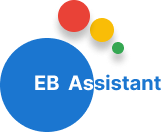
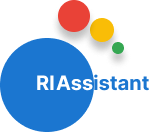
Completed implementation of tawk and add streamline stage phase 2

diff --git a/resources/js/components/ResultComponent.vue b/resources/js/components/ResultComponent.vue
@@ -2,42 +2,15 @@
 
     <div class="assessment-component" style="text-align: left;">
 
-
-        <div v-if="!ready">
-            <h1 style="text-align: left; font-style: italic;"><span>There is about <br><span style="color: #1b76d0; font-size: 40px;">{{Math.round($route.query.percentage)}}% chance we diagnose</span> you correctly...</span></h1>
-            <CountdownTimer :key="countdownKey" @countdown-finished="onCountdownFinished" />
-            <br><br>
-        </div>
-
-        <div v-if="ready">
+        <div>
             <router-link to="/diagnosis"><i class="fa fa-arrow-left"></i> Go back to diagnosis | Restart</router-link>
             <br><br>
 
-            <div id="questionContainer" v-if="symptoms.length > 0 && assessmentStatus != 'completed'">
-            <h1 style="text-align: left;"><span>Kindly answer <br>the following streamlining questions</span></h1>
-            <span>Respond with a Yes / No</span>
+            <img id="assistant" src="/public/img/eb-assistant.png" alt="RI Assistant Animation">
+            <br><br>
+            <hr><br>
 
-            <hr>
-                <!-- Question goes here ... -->
-                <h2>{{ symptoms[0].question }}</h2>
-                <br>
-                <h6>{{ symptoms[0].description }}</h6>
-                <br>
-                <h4 style="font-size: 15px;">{{ pos }} / {{ totalSymptoms }}</h4>
 
-                <br>
-
-                <input class="radio" type="radio" name="response" v-model="selectedResponse" value="YES" id="yesOption" />
-                <label for="yesOption" style="font-size: 20px; font-weight: bold; color: black;">YES</label>
-
-                <input class="radio" type="radio" name="response" v-model="selectedResponse" value="NO" id="noOption" />
-                <label for="noOption" style="font-size: 20px; font-weight: bold; color: black;">NO</label>
-
-                <br>
-                <div style="text-align: right;">
-                    <button class="btn btn-md btn-primary" @click="nextQuestion" style="float: right;">Next</button>
-                </div>
-        </div>
 
         </div>
     </div>
@@ -46,13 +19,9 @@
 
 <script>
 import axios from 'axios';
-import CountdownTimer from './CountdownTimer.vue';
 
 export default {
-    name: 'AssessmentStreamlineComponent',
-    components : {
-        CountdownTimer
-    },
+    name: 'ResultComponent',
     data() {
         return {
             symptoms : [],
@@ -64,13 +33,10 @@ export default {
             responseMessage : '',
             curType : 'common',
             sessionId : '',
-            assessmentStatus : "in-progress",
-            countdownKey: 0,
-            ready : false
         };
     },
     async mounted() {
-        console.log('Assessment Streamline Component is mounted!');
+        console.log('Assessment Result Component is mounted!');
 
         this.sessionId = this.$route.query.sessionId;
 
@@ -122,15 +88,7 @@ export default {
                 // Handle errors
                 this.responseMessage = error.response?.data?.message || 'An error occurred';
             }
-        },
-        nextQuestion() {
-            if (this.selectedResponse !== '' && (parseInt(this.pos) <= parseInt(this.totalSymptoms))) {
-                this.fetchGeneralSymptoms()
-            }
-        },
-        onCountdownFinished() {
-            this.ready = true
-        },
+        }
     }
 }
 </script>

diff --git a/resources/js/components/AssessmentComponent.vue b/resources/js/components/AssessmentComponent.vue
@@ -49,7 +49,8 @@ export default {
             responseMessage : '',
             curType : 'common',
             sessionId : '',
-            assessmentStatus : "in-progress"
+            assessmentStatus : "in-progress",
+            trueAnswers : 0
         };
     },
     async mounted() {
@@ -68,8 +69,6 @@ export default {
     methods: {
         async fetchGeneralSymptoms() {
             try {
-                console.log(this.curSymptom)
-                console.log(this.ids.length)
                 // Send POST request to Laravel API
                 if(this.ids.length > 0)
                 {
@@ -78,6 +77,8 @@ export default {
                         this.assessmentStatus = "completed";
                     }
                 }
+
+                if(this.selectedResponse == "YES") {this.trueAnswers +=1 }
 
                 const response = await axios.get("/api/v1/fetch-common-symptoms?type="+this.curType+"&id="+this.curSymptom+"&session_id="+this.sessionId+"&question_id="+this.curSymptom+"&answer="+this.selectedResponse+"&flag="+this.assessmentStatus);
 
@@ -92,7 +93,10 @@ export default {
 
                     if(this.ids.length > 0 && this.curSymptom > this.ids.length)
                     {
-                        this.$router.push('/assessment-streamline');
+                        this.$router.push({
+                            path: '/assessment-streamline',
+                            query: { sessionId: this.sessionId, percentage : (this.trueAnswers/this.totalSymptoms)*100 }
+                        });
                     }
                 }
                 else {

diff --git a/resources/js/components/DiagnosisComponent.vue b/resources/js/components/DiagnosisComponent.vue
@@ -23,10 +23,8 @@
 
                     <img class="modal-title" src="/public/img/eb-assistant-bare.png" alt="EB Assistant Animation">
                     <br><br>
-                    You are not alone dear, we are going to help you navigate thoughts
+                    You are not alone dear, we are going to help you navigate thoughts like
                     <br>
-                    <br>
-                    <h5 style="color: #1b76d0">Like</h5>
                     <br>
 
                     <div v-html="similarSearch"></div>

diff --git a/resources/js/router.js b/resources/js/router.js
@@ -13,6 +13,10 @@ const routes = [
         path: "/assessment-streamline",
         component: () => import("./components/AssessmentStreamlineComponent.vue"),
     },
+    {
+        path: "/result",
+        component: () => import("./components/ResultComponent.vue"),
+    },
 ];
 
 export default createRouter({

diff --git a/resources/js/components/CountdownTimer.vue b/resources/js/components/CountdownTimer.vue
@@ -1,6 +1,6 @@
 <template>
     <div>
-      Redirecting in {{ timeLeft }}s ...
+      Continue in {{ timeLeft }}s ...
     </div>
   </template>
 
@@ -9,7 +9,7 @@
     name: 'CountdownTimer',
     data() {
       return {
-        timeLeft: 5,
+        timeLeft: 3,
         timer: null,
       };
     },

diff --git a/database/seeders/QuestionSeeder.php b/database/seeders/QuestionSeeder.php
@@ -17,7 +17,7 @@ class QuestionSeeder extends Seeder
             // Common symptoms
             [
                 'type' => "common",
-                'question' => "Feeling a Persistent Low Mood and Sadness",
+                'question' => "Do you feeling a Persistent Low Mood and Sadness",
                 'description' => "Do you experience a persistent feeling of sadness and low mood that affects daily life", 'group_id' => 0
             ],
             [
@@ -27,7 +27,7 @@ class QuestionSeeder extends Seeder
             ],
             [
                 'type' => "common",
-                'question' => "Any Fatigue and Lack of Energy",
+                'question' => "Do you feel any Fatigue and Lack of Energy",
                 'description' => "Feeling tired all the time and having a lack of energy", 'group_id' => 0
             ],
             [
@@ -47,7 +47,7 @@ class QuestionSeeder extends Seeder
             ],
             [
                 'type' => "common",
-                'question' => "Any Thoughts of Death or Suicide",
+                'question' => "Do you have any Thoughts of Death or Suicide",
                 'description' => "Possible suicidal thoughts", 'group_id' => 0
             ],
         ];
@@ -57,22 +57,22 @@ class QuestionSeeder extends Seeder
             // General symptoms
             [
                 'type' => "general",
-                'question' => "Physical Symptoms",
+                'question' => "Do you experience any physical symptoms",
                 'description' => "Includes physical signs like moving or speaking slowly, constipation, and unexplained aches and pains", 'group_id' => 1
             ],
             [
                 'type' => "general",
-                'question' => "Social Withdrawal",
-                'description' => "People with general depression might avoid social contact and neglect hobbies, leading to difficulties in home, work, or family life.", 'group_id' => 1
+                'question' => "Do you find yourself Socially withdrawing",
+                'description' => "Includes avoiding social contact and neglect hobbies, leading to difficulties in home, work, or family life.", 'group_id' => 1
             ],
             [
                 'type' => "general",
-                'question' => "Severity and Variability",
-                'description' => "Depression can range from mild to severe and can come on gradually, making it hard to notice initially.", 'group_id' => 1
+                'question' => "Does your experience seem severe or unpredictable",
+                'description' => "It can range from mild to severe and can come on gradually, making it hard to notice initially.", 'group_id' => 1
             ],
             [
                 'type' => "general",
-                'question' => "Psychological Symptoms",
+                'question' => "Any noticeable psychological symptoms",
                 'description' => "Feelings of guilt, hopelessness, low self-esteem, and irritability are more emphasized.", 'group_id' => 1
             ]
         ];
@@ -81,13 +81,13 @@ class QuestionSeeder extends Seeder
             // postnatal symptoms
             [
                 'type' => "postnatal",
-                'question' => "Did you have a child in the past 1 year",
-                'description' => "Specifically occurs after childbirth and can affect both mothers and fathers.", 'group_id' => 2
+                'question' => "Have you had a child in the past 1 year",
+                'description' => "This can occurs after childbirth and can affect both mothers and fathers.", 'group_id' => 2
             ],
             [
                 'type' => "postnatal",
-                'question' => "Do find it difficult to care for your Baby",
-                'description' => "This form of depression often includes difficulty in caring for oneself and the baby, as well as frightening thoughts about harming the baby.", 'group_id' => 2
+                'question' => "Do you find it difficult to care for your Baby (if you have any)",
+                'description' => "This often includes difficulty in caring for oneself and the baby, as well as frightening thoughts about harming the baby.", 'group_id' => 2
             ],
             [
                 'type' => "postnatal",
@@ -110,7 +110,7 @@ class QuestionSeeder extends Seeder
             ],
             [
                 'type' => "psychotic",
-                'question' => "Any Psychomotor Changes",
+                'question' => "Do you notice any Psychomotor Changes",
                 'description' => "Includes psychomotor agitation (restlessness and inability to sit still) or psychomotor retardation (slowed movements and thoughts).", 'group_id' => 3
             ],
             [

diff --git a/resources/views/partials/footer.blade.php b/resources/views/partials/footer.blade.php
@@ -35,7 +35,7 @@
                                     <li><a href="#"><i class="fa fa-caret-right" aria-hidden="true"></i>Doctors</a></li>
                                     <li><a href="#"><i class="fa fa-caret-right" aria-hidden="true"></i>Testimonials</a></li>
                                     <li><a href="#"><i class="fa fa-caret-right" aria-hidden="true"></i>FAQ</a></li>
-                                    <li><a href="#"><i class="fa fa-caret-right" aria-hidden="true"></i>Contact Us</a></li>	
+                                    <li><a href="#"><i class="fa fa-caret-right" aria-hidden="true"></i>Contact Us</a></li>
                                 </ul>
                             </div>
                         </div>
@@ -73,7 +73,7 @@
             <div class="row">
                 <div class="col-lg-12 col-md-12 col-12">
                     <div class="copyright-content">
-                        <p>© Copyright {{ date('Y')}}  |  All Rights Reserved by <a href="https://www.linkedin.com/in/ebenezer-babalola-654493158" target="_blank">Ebenezer Babalola</a> </p>
+                        <p>© Copyright {{ date('Y')}}  |  All Rights Reserved by <a href="#" target="_blank">Richard Ilinosi</a> </p>
                     </div>
                 </div>
             </div>

diff --git a/app/Http/Controllers/AssessmentController.php b/app/Http/Controllers/AssessmentController.php
@@ -67,4 +67,32 @@ class AssessmentController extends Controller
             'count' => $ids->count()
         ]);
     }
+
+    public function fetchStreamlineSymptoms(Request $request)
+    {
+        $id = (int)$request->id;
+
+        $question = Question::where('type', '!=', 'common')
+        ->when(($id > 0), function($q){
+            $q->where('id', request()->id);
+        })
+        ->first();
+        $ids = Question::where('type', '!=', 'common')->pluck('id');
+
+
+        // Store answers if any
+        if($request->answer == "YES" || $request->answer == "NO")
+        {
+            Answer::updateOrCreate(
+                ['session_id' => $request->session_id, 'question_id' => $request->question_id],
+                ['answer' => $request->answer]
+            );
+        }
+
+        return response()->json([
+            'question' => $question,
+            'ids' => $ids,
+            'count' => $ids->count()
+        ]);
+    }
 }

diff --git a/resources/views/layouts/fe-layout.blade.php b/resources/views/layouts/fe-layout.blade.php
@@ -116,5 +116,23 @@
 		<script src="{{asset('js/main.js')}}"></script>
 		<!-- Anmie JS -->
 		<script src="https://cdnjs.cloudflare.com/ajax/libs/animejs/3.2.2/anime.min.js" integrity="sha512-aNMyYYxdIxIaot0Y1/PLuEu3eipGCmsEUBrUq+7aVyPGMFH8z0eTP0tkqAvv34fzN6z+201d3T8HPb1svWSKHQ==" crossorigin="anonymous" referrerpolicy="no-referrer"></script>
+
+
+
+        <!--Start of Tawk.to Script-->
+        <script type="text/javascript">
+            var Tawk_API=Tawk_API||{}, Tawk_LoadStart=new Date();
+            (function(){
+            var s1=document.createElement("script"),s0=document.getElementsByTagName("script")[0];
+            s1.async=true;
+            s1.src='https://embed.tawk.to/66c9bfa950c10f7a009ff4e0/1i6219btu';
+            s1.charset='UTF-8';
+            s1.setAttribute('crossorigin','*');
+            s0.parentNode.insertBefore(s1,s0);
+            })();
+            </script>
+    <!--End of Tawk.to Script-->
+
+
     </body>
 </html>

diff --git a/resources/views/partials/header.blade.php b/resources/views/partials/header.blade.php
@@ -17,7 +17,7 @@
                 <div class="col-lg-6 col-md-7 col-12">
                     <!-- Top Contact -->
                     <ul class="top-contact">
-                        <li><i class="fa fa-phone"></i><a href="tel:+44 77800 80996">+44 77800 80996</a></li>
+                        <li><i class="fa fa-phone"></i><a href="tel:+44 7780 579156">+44 7780 579156</a></li>
                         <li><i class="fa fa-envelope"></i><a href="mailto:support@medicassist.com">support@medicassist.com</a></li>
                     </ul>
                     <!-- End Top Contact -->

diff --git a/routes/api.php b/routes/api.php
@@ -5,3 +5,4 @@ use Illuminate\Support\Facades\Route;
 
 Route::post('/v1/assess-query', [AssessmentController::class, 'assessQuery'])->name('assessQuery');
 Route::get('/v1/fetch-common-symptoms', [AssessmentController::class, 'fetchCommonSymptoms'])->name('commonSymptomsQuery');
+Route::get('/v1/fetch-streamline-symptoms', [AssessmentController::class, 'fetchStreamlineSymptoms'])->name('streamlineSymptomsQuery');
